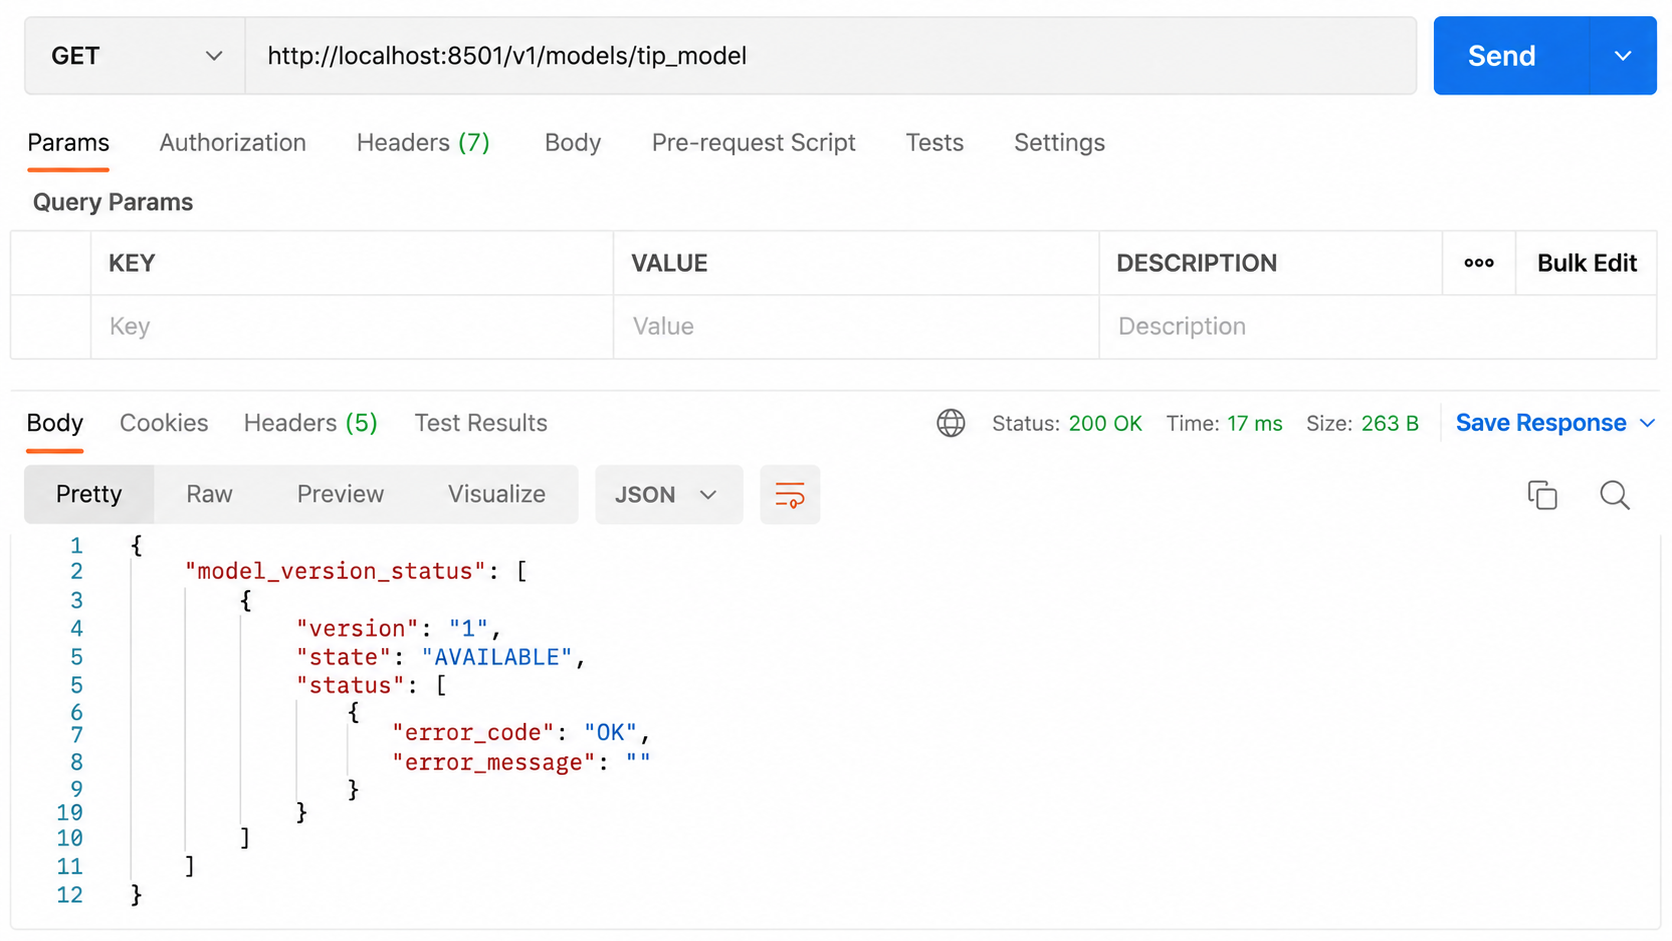
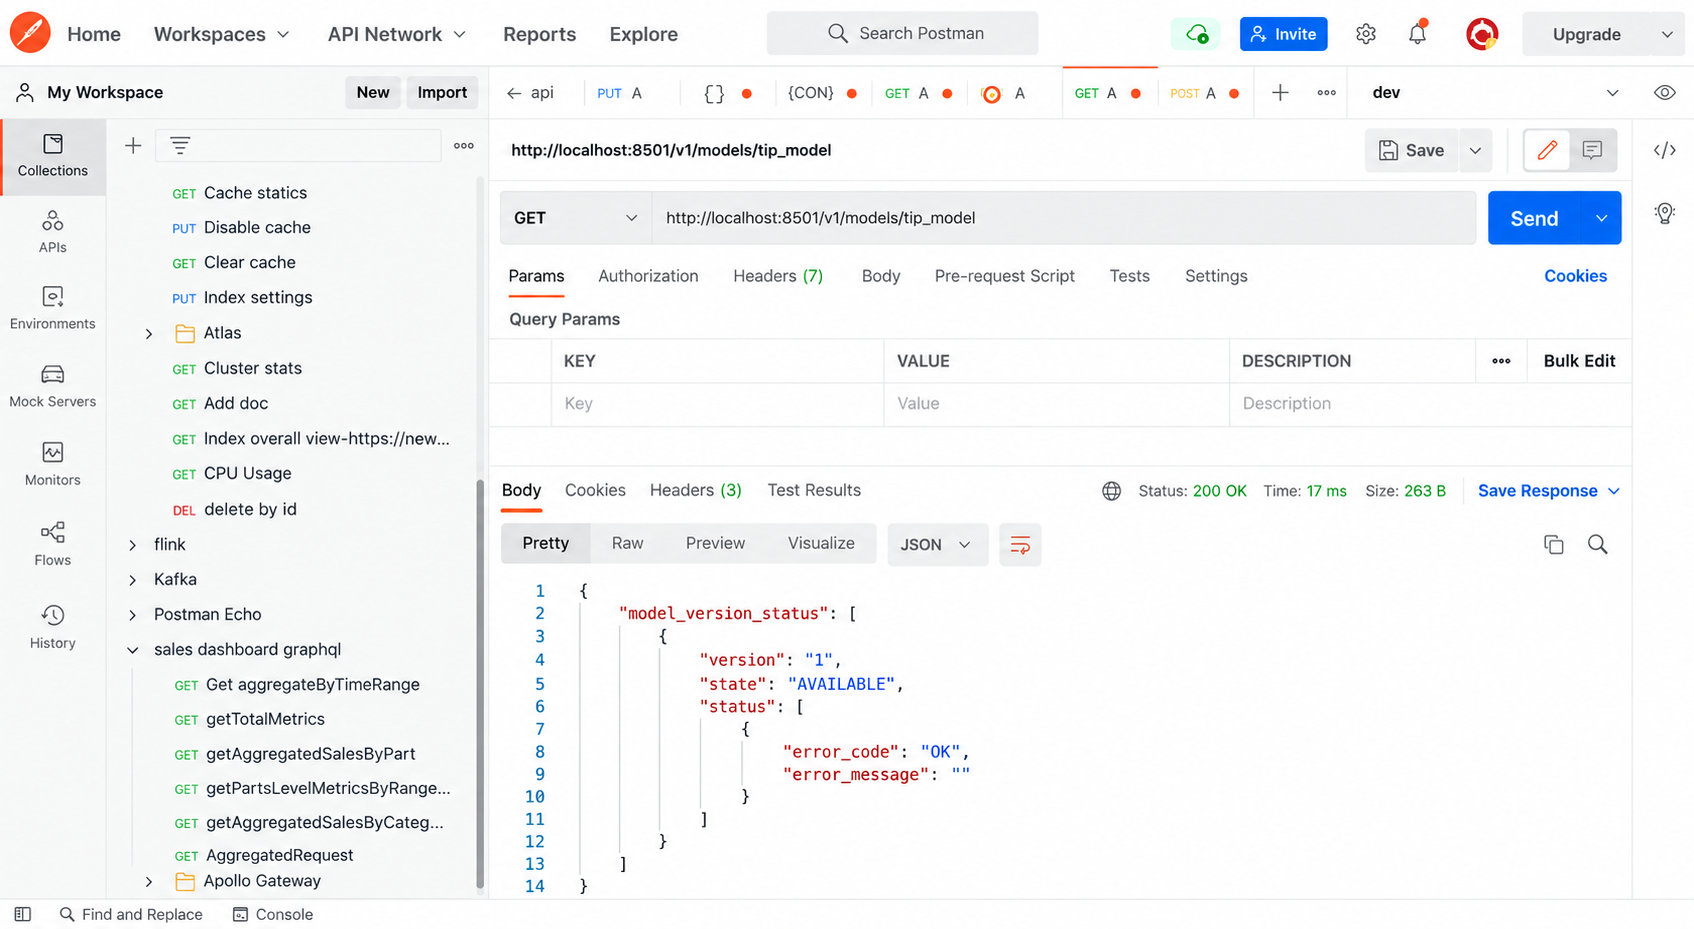
Repair deployment prediction screenshots

diff --git a/cohorts/2027/2026-09-08-imagegen-repair-provenance.md b/cohorts/2027/2026-09-08-imagegen-repair-provenance.md
@@ -122,3 +122,28 @@ The `02-workflow-orchestration/images/homework-cropped.png` embed was removed
 from `homework.md` and replaced by a native Markdown table listing the seven
 2021 yellow and green monthly files. It was not regenerated; the source image
 remains unmodified and no C2PA claim is made for it.
+
+## Strict follow-up repair — 2026-09-09: deployment prediction screenshots
+
+The strict audit found three defects in the published deployment screenshots:
+the model-status response had duplicated/skipped line numbers, and both
+prediction requests copied the stale source value `22.2` even though the
+current lesson uses `trip_distance: 12.2`; the payment-type-2 response also
+had corrupted line numbering. Each replacement was generated with the built-in
+imagegen tool from the original non-crisp JPEG and its retained deterministic
+crop. Supporting generated layout references were used for the prediction
+passes only; no resized or sharpened derivative was used as the source of
+truth.
+
+The final PNGs were inspected at native resolution and after proportional
+rendering to 608px lesson width. The status response has a complete numbered
+JSON block from 1 through 14. Both prediction request editors have numbered
+lines 1 and 2, use the lesson-authoritative `12.2`, and retain their original
+response values; both response panels have consecutive line numbers 1 through
+7. All three outputs contain C2PA metadata.
+
+| Published target | Original JPG (SHA-256) | Deterministic crop (SHA-256) | Imagegen output | Final PNG (SHA-256) | C2PA / validation |
+|---|---|---|---|---|---|
[3 lines of base64/hex data omitted]
